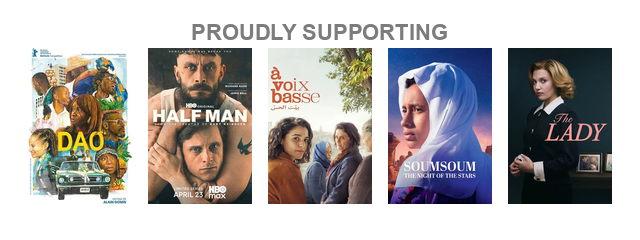
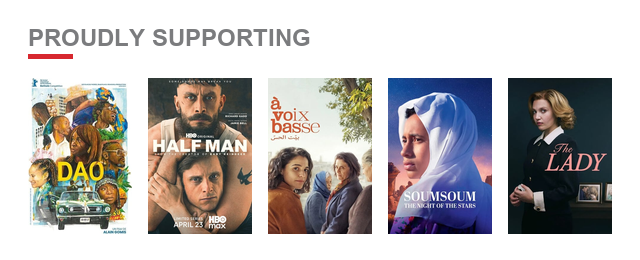
Headline: PROUDLY SUPPORTING bold + red accent, left-aligned

diff --git a/banner/compositor.py b/banner/compositor.py
@@ -29,6 +29,7 @@ POSTER_RATIO = 350 / 525  # 2:3
 # Neutral grey that reads on both white and dark backgrounds — matches
 # the existing Panalux 2025 signature text colour exactly.
 COLOR_TEXT = (123, 124, 126, 255)  # #7B7C7E with full alpha
+COLOR_ACCENT = (215, 40, 47, 255)  # #D7282F Panalux red
 
 # Font paths — try real Arial first (macOS native + Microsoft Core Fonts
 # package on Linux), then Liberation Sans (metric-compatible) as fallback.
@@ -97,12 +98,14 @@ def compose(credits: List[Credit]) -> Image.Image:
     """
     Compose the banner with a fully transparent background.
 
-    Layout (display dimensions, 320 × 120 — matches the 320px signature):
-      ├── 10px top padding
-      ├── "Proudly Supporting" — Arial Bold 11pt-ish, centered, #7B7C7E
-      ├── 6px gap
-      ├── 5 posters in a row, each 52×78px display, centered with 8px gaps
-      └── 10px bottom padding
+    Layout (display dimensions, 320 × 130 — matches the 320px signature):
+      ├── 12px top padding
+      ├── "PROUDLY SUPPORTING" — Arial Bold, left-aligned at x=14, #7B7C7E
+      ├── 4px gap
+      ├── 22px red accent bar (#D7282F, 2px tall, x=14)
+      ├── 10px gap
+      ├── 5 posters in a row, each 52×78px display, edge-to-edge with 8px gaps
+      └── 8px bottom padding
     """
     needed = config.NUM_CREDITS
     if len(credits) < needed:
@@ -117,34 +120,40 @@ def compose(credits: List[Credit]) -> Image.Image:
     img = Image.new("RGBA", (W, H), (0, 0, 0, 0))
     draw = ImageDraw.Draw(img)
 
-    # --- "Proudly Supporting" text, centered horizontally near top ---
-    # Size 11 → matches the signature's display name typographic weight
-    font_supporting = _load_font(FONT_BOLD_CANDIDATES, 11)
+    # --- "PROUDLY SUPPORTING" left-aligned with padding ---
+    font_supporting = _load_font(FONT_BOLD_CANDIDATES, 12)
     text = "PROUDLY SUPPORTING"
-    bbox = draw.textbbox((0, 0), text, font=font_supporting)
-    text_w = bbox[2] - bbox[0]
-    text_h = bbox[3] - bbox[1]
-    text_x = (W - text_w) // 2
-    text_y_display = 10
+    text_x = 14 * SCALE  # align with poster row's left edge
+    text_y_display = 12
     text_y = text_y_display * SCALE
     draw.text((text_x, text_y), text, font=font_supporting, fill=COLOR_TEXT)
 
-    # --- Posters centered below ---
+    # Measure the rendered text so the accent bar sits cleanly under it
+    bbox = draw.textbbox((text_x, text_y), text, font=font_supporting)
+    text_bottom = bbox[3]
+
+    # --- Red accent bar under the text (matches original "LATEST CREDITS" treatment) ---
+    accent_gap = 4 * SCALE
+    accent_y = text_bottom + accent_gap
+    accent_w = 22 * SCALE
+    accent_h = 2 * SCALE
+    draw.rectangle(
+        [text_x, accent_y, text_x + accent_w, accent_y + accent_h],
+        fill=COLOR_ACCENT,
+    )
+    accent_bottom = accent_y + accent_h
+
+    # --- Posters in a row below ---
     posters, used = _download_posters_resilient(credits, needed=needed)
     log.info("Banner credits: %s", [c.title for c in used])
 
-    # Horizontal layout for 5 posters across 320px width:
-    #   2*side_pad + 5*poster_w + 4*gap = 320  (display px)
-    #   With side_pad=14 and gap=8: poster_w = (320 - 28 - 32) / 5 = 52
     side_pad = 14 * SCALE
     gap = 8 * SCALE
     poster_w = (W - 2 * side_pad - 4 * gap) // 5
-    poster_h = int(poster_w / POSTER_RATIO)  # 2:3 ratio
+    poster_h = int(poster_w / POSTER_RATIO)
 
-    # Vertical positioning
-    gap_below_text = 6 * SCALE
-    text_block_h = text_y_display * SCALE + text_h
-    y_start = text_block_h + gap_below_text
+    gap_above_posters = 10 * SCALE
+    y_start = accent_bottom + gap_above_posters
     x_start = side_pad
 
     for i, poster in enumerate(posters):

diff --git a/banner/config.py b/banner/config.py
@@ -14,7 +14,7 @@ SOURCE_URL = "https://www.panavision.com/highlights/credits?divisions=_panalux"
 CLICK_THROUGH_URL = "https://www.panavision.com/highlights/credits?divisions=_panalux"
 
 # Banner dimensions — matches the 320px-wide email signature table
-DISPLAY_W, DISPLAY_H = 320, 120
+DISPLAY_W, DISPLAY_H = 320, 130
 SCALE = 2
 W, H = DISPLAY_W * SCALE, DISPLAY_H * SCALE
 
